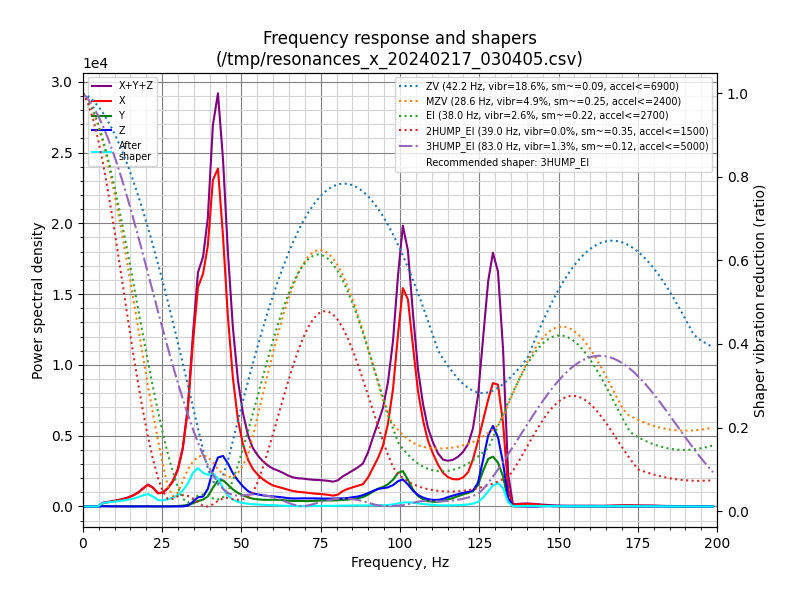
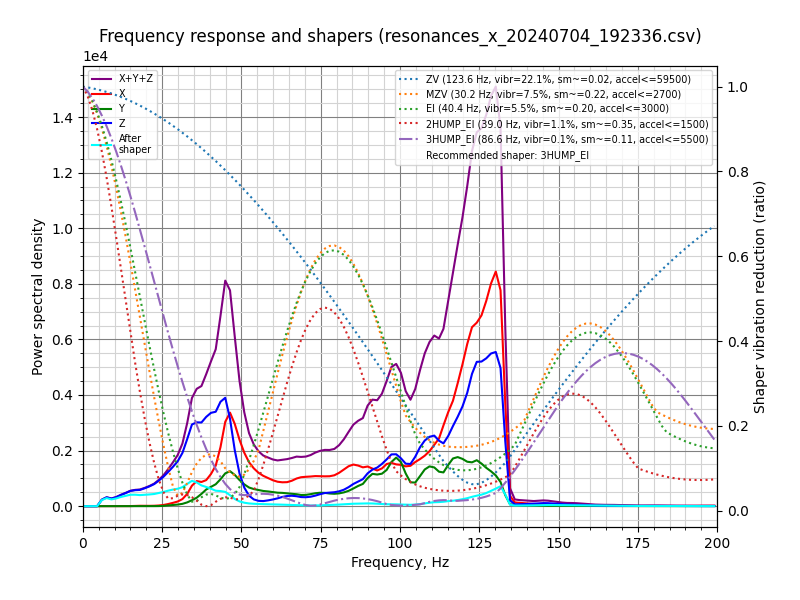
chore(hardware): update x chart

Changed region(s): [[0.0312, 0.03, 0.9688, 0.87], [0.0625, 0.72, 0.0938, 0.78]]

diff --git a/hardware/resonances/README.md b/hardware/resonances/README.md
@@ -9,17 +9,17 @@ Measured using ADXL345 over SPI on a Pico running as separate MCU.
 ![shaper_calibrate_x](./shaper_calibrate_x.png)
 
 ```
-Fitted shaper 'zv' frequency = 42.2 Hz (vibrations = 18.6%, smoothing ~= 0.091)
-To avoid too much smoothing with 'zv', suggested max_accel <= 6900 mm/sec^2
-Fitted shaper 'mzv' frequency = 28.6 Hz (vibrations = 4.9%, smoothing ~= 0.249)
-To avoid too much smoothing with 'mzv', suggested max_accel <= 2400 mm/sec^2
-Fitted shaper 'ei' frequency = 38.0 Hz (vibrations = 2.6%, smoothing ~= 0.223)
-To avoid too much smoothing with 'ei', suggested max_accel <= 2700 mm/sec^2
-Fitted shaper '2hump_ei' frequency = 39.0 Hz (vibrations = 0.0%, smoothing ~= 0.355)
+Fitted shaper 'zv' frequency = 123.6 Hz (vibrations = 22.1%, smoothing ~= 0.015)
+To avoid too much smoothing with 'zv', suggested max_accel <= 59500 mm/sec^2
+Fitted shaper 'mzv' frequency = 30.2 Hz (vibrations = 7.5%, smoothing ~= 0.223)
+To avoid too much smoothing with 'mzv', suggested max_accel <= 2700 mm/sec^2
+Fitted shaper 'ei' frequency = 40.4 Hz (vibrations = 5.5%, smoothing ~= 0.197)
+To avoid too much smoothing with 'ei', suggested max_accel <= 3000 mm/sec^2
+Fitted shaper '2hump_ei' frequency = 39.0 Hz (vibrations = 1.1%, smoothing ~= 0.355)
 To avoid too much smoothing with '2hump_ei', suggested max_accel <= 1500 mm/sec^2
-Fitted shaper '3hump_ei' frequency = 83.0 Hz (vibrations = 1.3%, smoothing ~= 0.119)
-To avoid too much smoothing with '3hump_ei', suggested max_accel <= 5000 mm/sec^2
-Recommended shaper is 3hump_ei @ 83.0 Hz
+Fitted shaper '3hump_ei' frequency = 86.6 Hz (vibrations = 0.1%, smoothing ~= 0.109)
+To avoid too much smoothing with '3hump_ei', suggested max_accel <= 5500 mm/sec^2
+Recommended shaper is 3hump_ei @ 86.6 Hz
 ```
 
 ## Y-Axis
